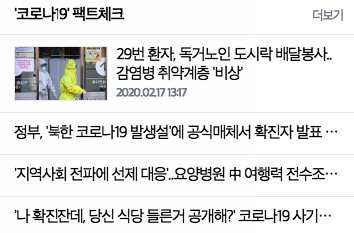
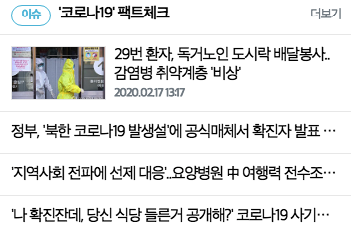
위젯 모바일 보완

diff --git a/widgets/post/rc-default/post/tag/list-default/main.php b/widgets/post/rc-default/post/tag/list-default/main.php
@@ -19,7 +19,7 @@ while($_R = db_fetch_array($_RCD)) $RCD[] = $_R;
   <?php if ($wdgvar['show_header']=='show'): ?>
   <header>
     <h3>
-      <?php echo $wdgvar['title']?$wdgvar['title']:'<span class="text-primary mr-1">이슈</span> # '.$wdgvar['tag'] ?>
+      <?php echo $wdgvar['title']?$wdgvar['title']:'<span class="badge badge-info badge-outline mr-1">키워드</span> '.$wdgvar['tag'] ?>
     </h3>
     <a href="#page-post-keyword"
       data-toggle="page"

diff --git a/widgets/post/rc-default/post/tag/list-highlight/main.php b/widgets/post/rc-default/post/tag/list-highlight/main.php
@@ -19,7 +19,7 @@ while($_R = db_fetch_array($_RCD)) $RCD[] = $_R;
   <?php if ($wdgvar['show_header']=='show'): ?>
   <header>
     <h3>
-      <?php echo $wdgvar['title']?$wdgvar['title']:'<span class="text-primary mr-1">이슈</span> # '.$wdgvar['tag'] ?>
+      <?php echo $wdgvar['title']?$wdgvar['title']:'<span class="badge badge-info badge-outline mr-1">키워드</span> '.$wdgvar['tag'] ?>
     </h3>
     <a href="#page-post-keyword"
       data-toggle="page"

diff --git a/widgets/post/rc-default/list/view/gallery-default/main.php b/widgets/post/rc-default/list/view/gallery-default/main.php
@@ -10,7 +10,10 @@ while($_R = db_fetch_array($_RCD)) $RCD[] = getDbData($table['postdata'],'uid='.
 
   <?php if ($wdgvar['show_header']=='show'): ?>
   <header>
-    <h3><?php echo $LIST['name'] ?></h3>
+    <h3>
+      <span class="badge badge-info badge-outline mr-1">이슈</span>
+      <?php echo $LIST['name'] ?>
+    </h3>
     <a href="#page-post-listview"
       data-toggle="page"
       data-start="#page-main"

diff --git a/widgets/post/rc-default/list/view/list-default/main.php b/widgets/post/rc-default/list/view/list-default/main.php
@@ -11,7 +11,10 @@ while($_R = db_fetch_array($_RCD)) $RCD[] = getDbData($table['postdata'],'uid='.
 
   <?php if ($wdgvar['show_header']=='show'): ?>
   <header>
-    <h3><?php echo $LIST['name'] ?></h3>
+    <h3>
+      <span class="badge badge-info badge-outline mr-1">이슈</span>
+      <?php echo $LIST['name'] ?>
+    </h3>
     <a href="#page-post-listview"
       data-toggle="page"
       data-start="#page-main"

diff --git a/widgets/post/rc-default/list/view/list-highlight/main.php b/widgets/post/rc-default/list/view/list-highlight/main.php
@@ -11,7 +11,10 @@ while($_R = db_fetch_array($_RCD)) $RCD[] = getDbData($table['postdata'],'uid='.
 
   <?php if ($wdgvar['show_header']=='show'): ?>
   <header>
-    <h3><?php echo $LIST['name'] ?></h3>
+    <h3>
+      <span class="badge badge-info badge-outline mr-1">이슈</span>
+      <?php echo $LIST['name'] ?>
+    </h3>
     <a href="#page-post-listview"
       data-toggle="page"
       data-start="#page-main"
